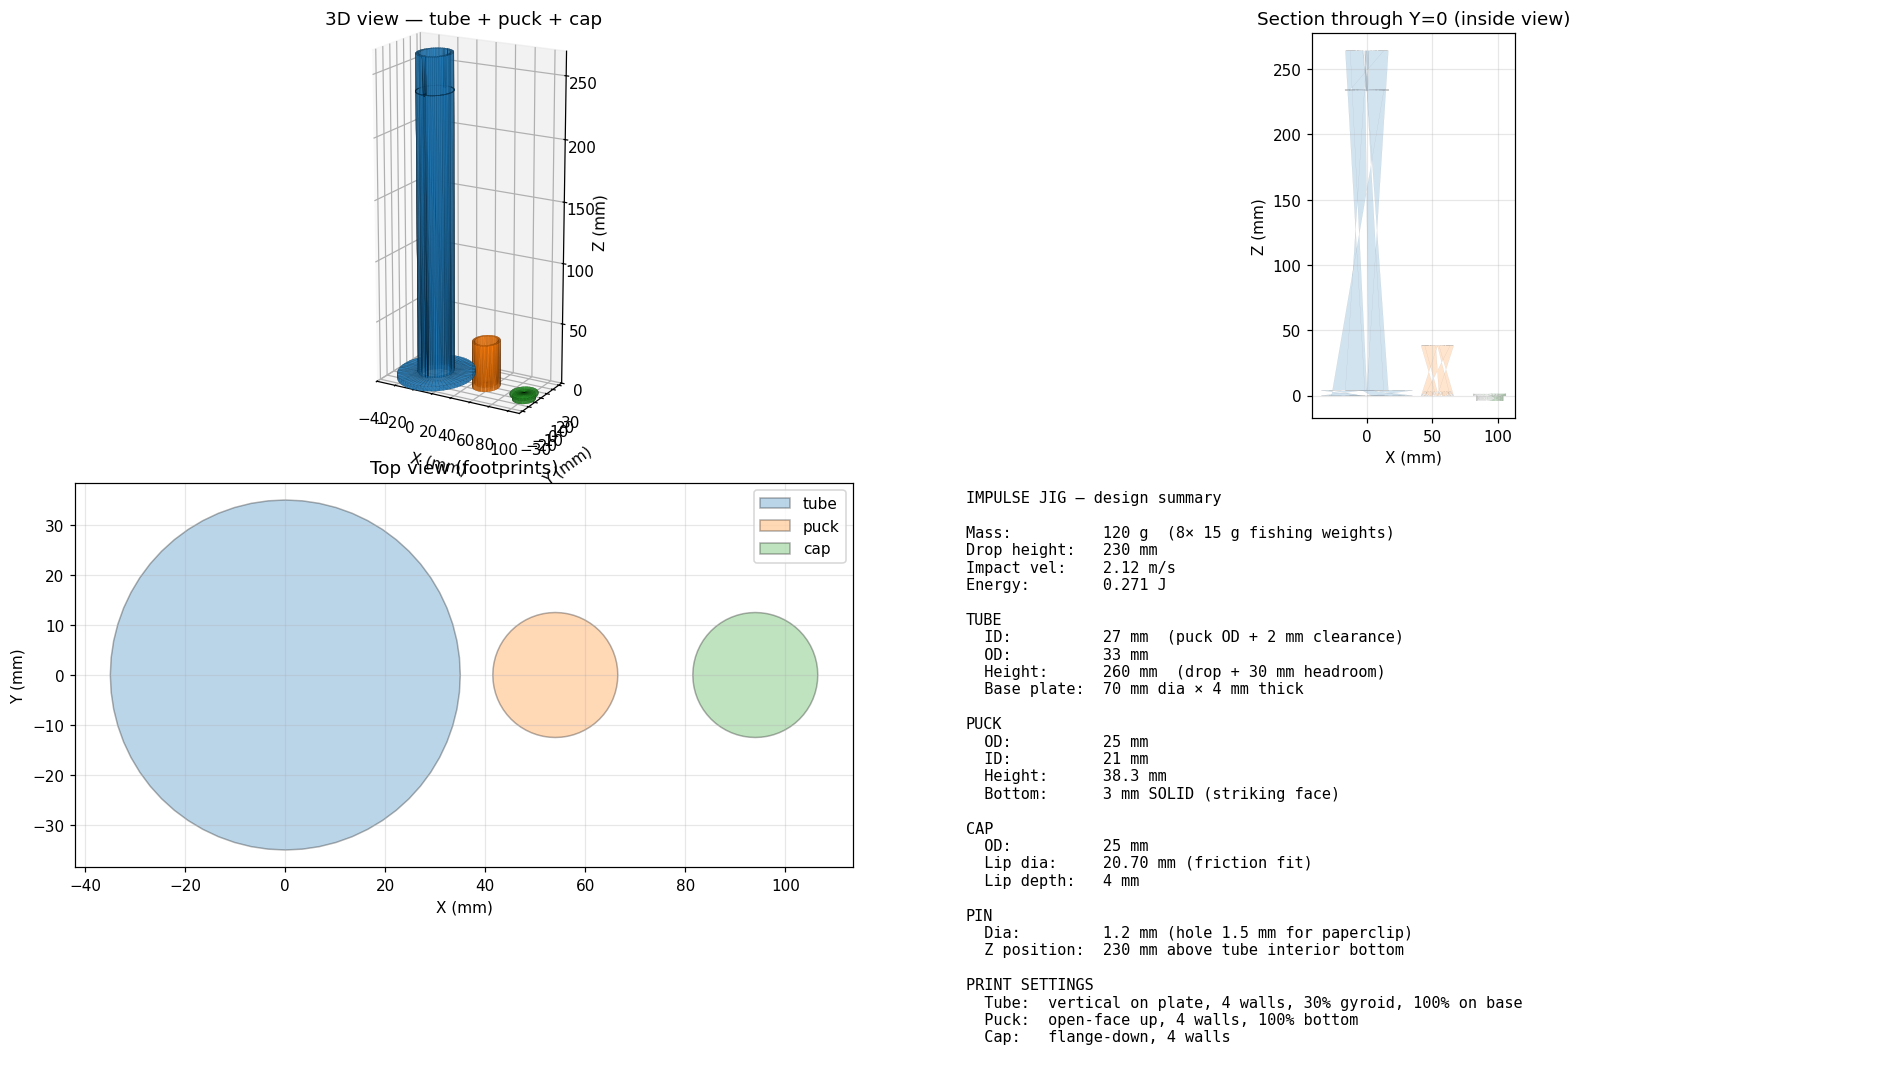
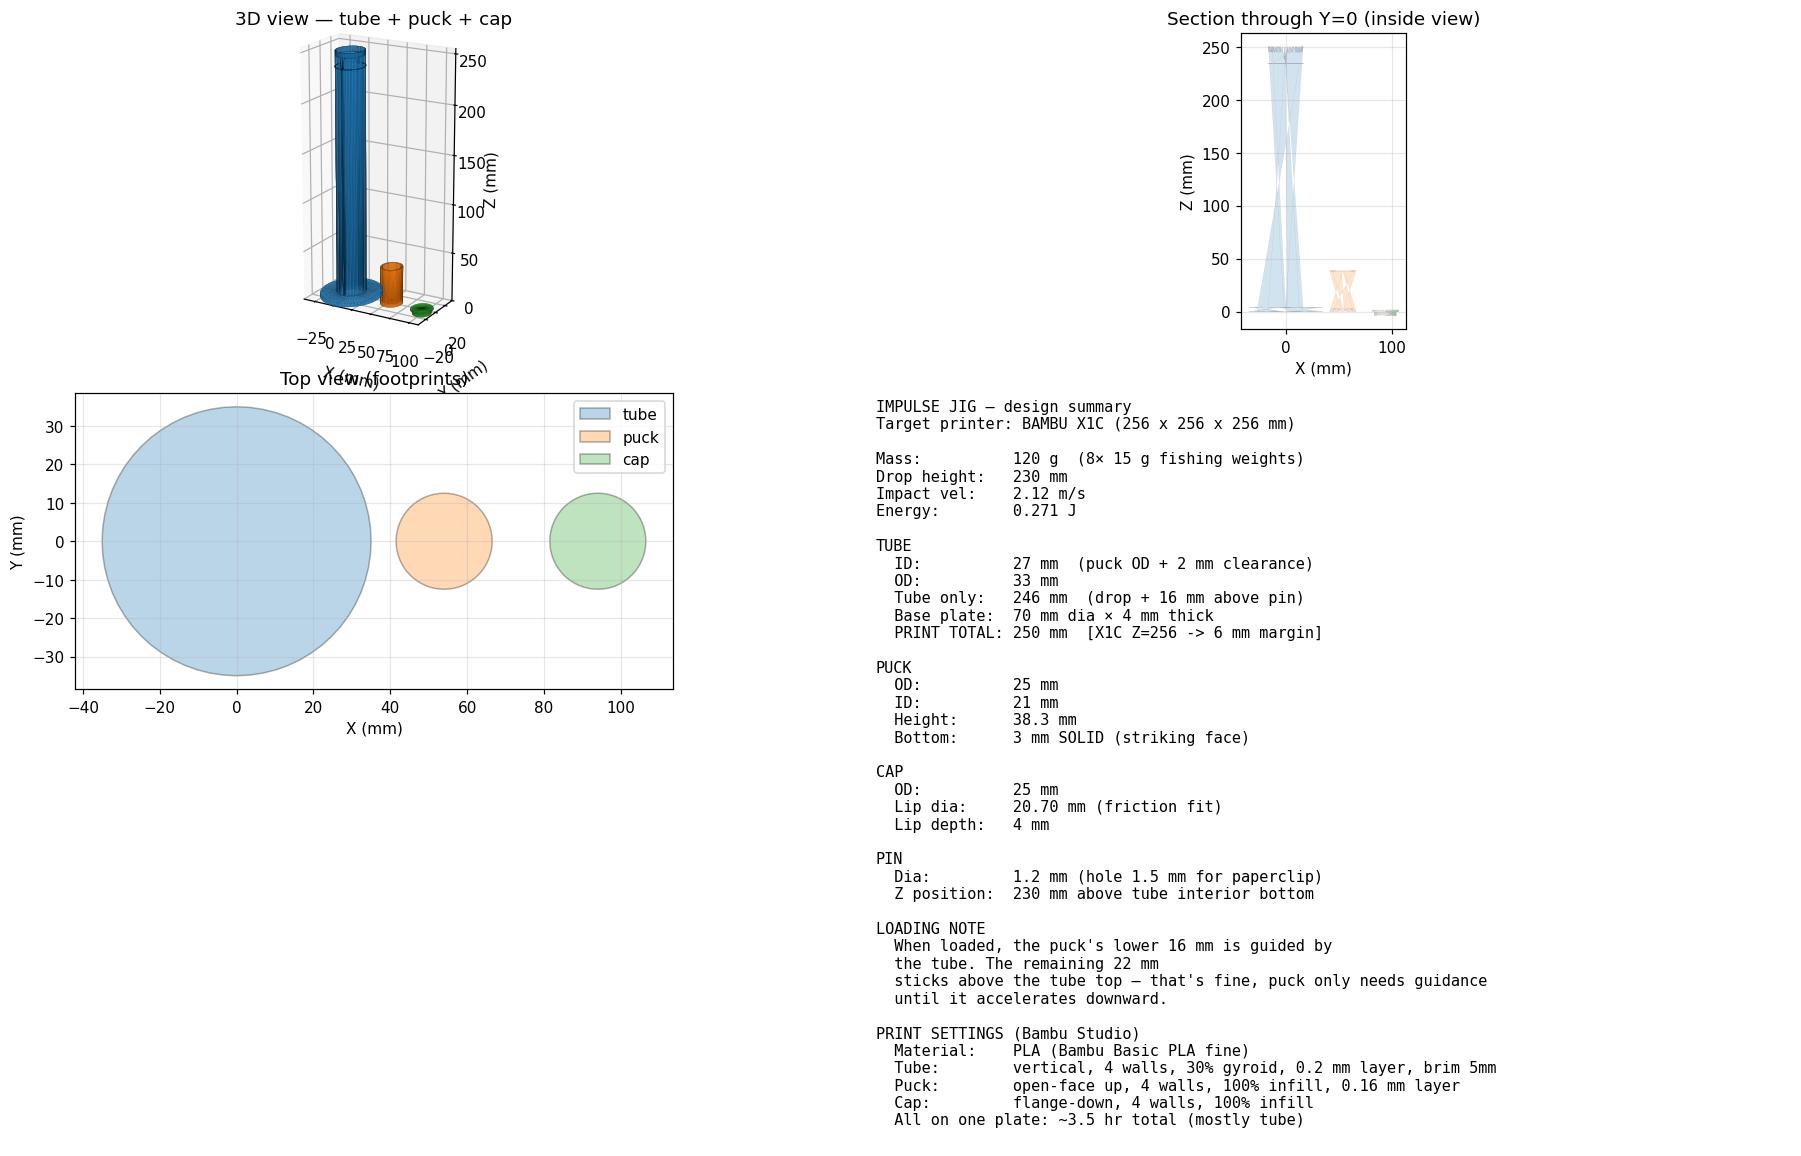
Re-spec jig for Bambu X1C (256mm Z limit)
Tube total print height reduced from 264mm to 250mm (fits X1C with
6mm margin). The puck no longer needs to be fully enclosed by the
tube when loaded — its lower 16mm is guided by the tube, the
remaining ~22mm sticks above the top. The puck only needs guidance
until it accelerates downward through the bore, so partial enclosure
is functionally equivalent.

Changes:
- impulse_jig.scad: tube_extra_top_mm 30 -> 16, total print height
  250mm. Added loading funnel (5mm chamfer at tube top, +5mm dia)
  to make puck insertion easier. Added Bambu Studio print-settings
  comments per part (orientation, walls, infill, layer height).
- build_jig_stl.py: same parameters, regenerated funnel via boolean
  cylinder difference (numpy-stl/trimesh approximation of SCAD cone).
  Updated dimensions panel in preview to show X1C-fit margin.
- jig_tube.stl, jig_puck.stl, jig_cap.stl: regenerated.
- jig_preview.png: regenerated.

Verified: total print height 250mm, X1C max Z 256mm, margin 6mm.

diff --git a/cad/build_jig_stl.py b/cad/build_jig_stl.py
@@ -27,12 +27,14 @@ weight_unit_mass_g    = 15
 weight_density_g_cc   = 11.3
 
 drop_height_mm        = 230
-tube_extra_top_mm     = 30
+tube_extra_top_mm     = 16   # tuned for Bambu X1C Z=256mm (total height 250mm)
 tube_wall_mm          = 3
 puck_clearance_mm     = 1
 pin_dia_mm            = 1.2
 base_dia_mm           = 70
 base_thickness_mm     = 4
+funnel_extra_dia_mm   = 5    # loading-funnel widening at tube top
+funnel_depth_mm       = 5
 
 # derived
 total_mass_g          = weight_count * weight_unit_mass_g
@@ -58,10 +60,13 @@ tube_total_height_mm  = drop_height_mm + tube_extra_top_mm
 # ---- print summary ----
 v_impact_ms = math.sqrt(2 * 9.81 * drop_height_mm / 1000)
 ke_J = 0.5 * (total_mass_g / 1000) * v_impact_ms ** 2
+total_print_height_mm = tube_total_height_mm + base_thickness_mm
 print("=== IMPULSE JIG — derived dimensions ===")
 print(f"  total mass: {total_mass_g} g ({weight_count}x {weight_unit_mass_g} g)")
 print(f"  puck OD x H: {puck_outer_dia_mm} x {puck_total_height_mm:.1f} mm")
 print(f"  tube ID x OD x H: {tube_id_mm} x {tube_od_mm} x {tube_total_height_mm} mm")
+print(f"  TOTAL PRINT HEIGHT (tube+base): {total_print_height_mm} mm  "
+      f"[X1C Z=256mm -> margin: {256 - total_print_height_mm} mm]")
 print(f"  drop height: {drop_height_mm} mm")
 print(f"  impact velocity: {v_impact_ms:.2f} m/s")
 print(f"  kinetic energy: {ke_J:.3f} J")
@@ -89,10 +94,18 @@ base       = base_solid.difference(base_hole)
 # tube
 tube_outer = cyl(tube_od_mm, tube_total_height_mm, z=base_thickness_mm)
 tube_bore  = cyl(tube_id_mm, tube_total_height_mm + 0.2, z=base_thickness_mm - 0.1)
-# pin hole through both walls (along Y axis)
+# loading funnel at top (truncated cone widening the bore)
+funnel = trimesh.creation.cone(radius=(tube_id_mm + funnel_extra_dia_mm) / 2,
+                                height=funnel_depth_mm + 0.1, sections=64)
+# cone() makes a cone with apex up. We want a frustum widening upward.
+# Construct as a cylinder difference for simplicity:
+funnel_box   = cyl(tube_id_mm + funnel_extra_dia_mm, funnel_depth_mm + 0.1,
+                   z=base_thickness_mm + tube_total_height_mm - funnel_depth_mm)
+# Use a tapered approach: subtract a cone-shaped solid
+# Easier: just use a slight outward chamfer via a wider cylinder at top
 pin_hole = cyl_at_y(pin_dia_mm + 0.3, tube_od_mm + 2)
 pin_hole.apply_translation([0, 0, base_thickness_mm + drop_height_mm])
-tube = tube_outer.difference([tube_bore, pin_hole])
+tube = tube_outer.difference([tube_bore, funnel_box, pin_hole])
 
 # small witness ring at pin height
 ring_outer = cyl(tube_od_mm + 0.8, 0.4, z=base_thickness_mm + drop_height_mm)
@@ -201,6 +214,7 @@ ax.set_aspect('equal'); ax.grid(alpha=0.3); ax.legend(loc='upper right')
 ax = fig.add_subplot(2, 2, 4)
 ax.axis('off')
 info = f"""IMPULSE JIG — design summary
+Target printer: BAMBU X1C (256 x 256 x 256 mm)
 
 Mass:          {total_mass_g} g  ({weight_count}× {weight_unit_mass_g} g fishing weights)
 Drop height:   {drop_height_mm} mm
@@ -210,8 +224,9 @@ Energy:        {ke_J:.3f} J
 TUBE
   ID:          {tube_id_mm} mm  (puck OD + {2*puck_clearance_mm} mm clearance)
   OD:          {tube_od_mm} mm
-  Height:      {tube_total_height_mm} mm  (drop + 30 mm headroom)
+  Tube only:   {tube_total_height_mm} mm  (drop + {tube_extra_top_mm} mm above pin)
   Base plate:  {base_dia_mm} mm dia × {base_thickness_mm} mm thick
+  PRINT TOTAL: {total_print_height_mm} mm  [X1C Z=256 -> {256 - total_print_height_mm} mm margin]
 
 PUCK
   OD:          {puck_outer_dia_mm} mm
@@ -228,10 +243,18 @@ PIN
   Dia:         {pin_dia_mm} mm (hole {pin_dia_mm+0.3} mm for paperclip)
   Z position:  {drop_height_mm} mm above tube interior bottom
 
-PRINT SETTINGS
-  Tube:  vertical on plate, 4 walls, 30% gyroid, 100% on base
-  Puck:  open-face up, 4 walls, 100% bottom
-  Cap:   flange-down, 4 walls
+LOADING NOTE
+  When loaded, the puck's lower {tube_extra_top_mm} mm is guided by
+  the tube. The remaining {puck_total_height_mm - tube_extra_top_mm:.0f} mm
+  sticks above the tube top — that's fine, puck only needs guidance
+  until it accelerates downward.
+
+PRINT SETTINGS (Bambu Studio)
+  Material:    PLA (Bambu Basic PLA fine)
+  Tube:        vertical, 4 walls, 30% gyroid, 0.2 mm layer, brim 5mm
+  Puck:        open-face up, 4 walls, 100% infill, 0.16 mm layer
+  Cap:         flange-down, 4 walls, 100% infill
+  All on one plate: ~3.5 hr total (mostly tube)
 """
 ax.text(0.02, 0.98, info, family='monospace', fontsize=10, va='top', ha='left')
 
